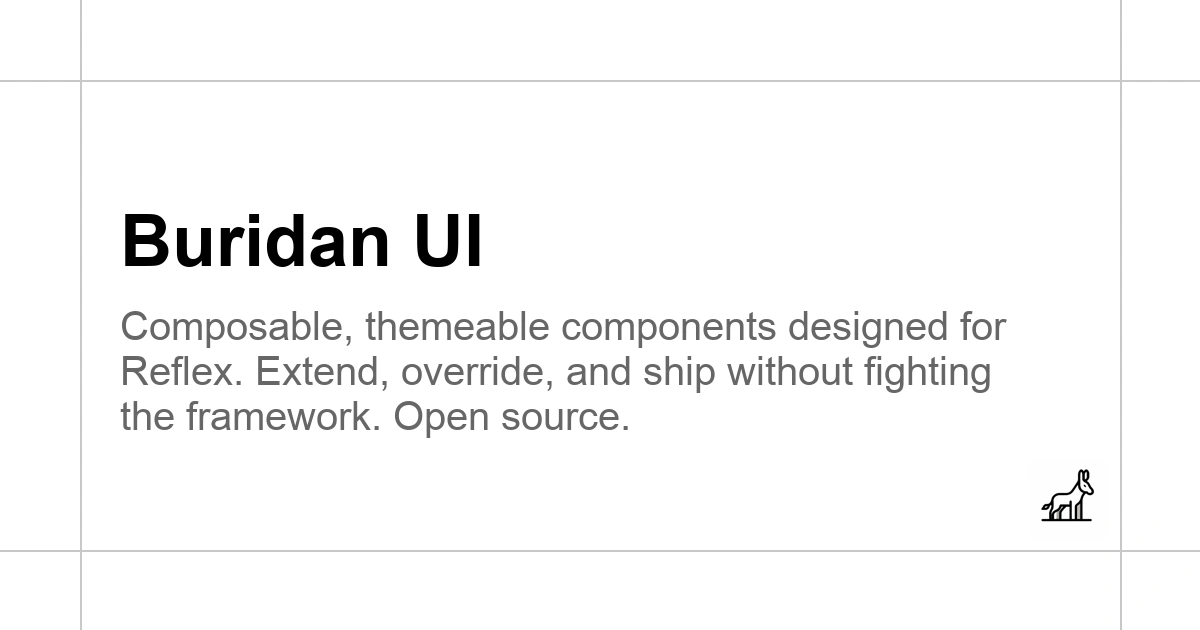
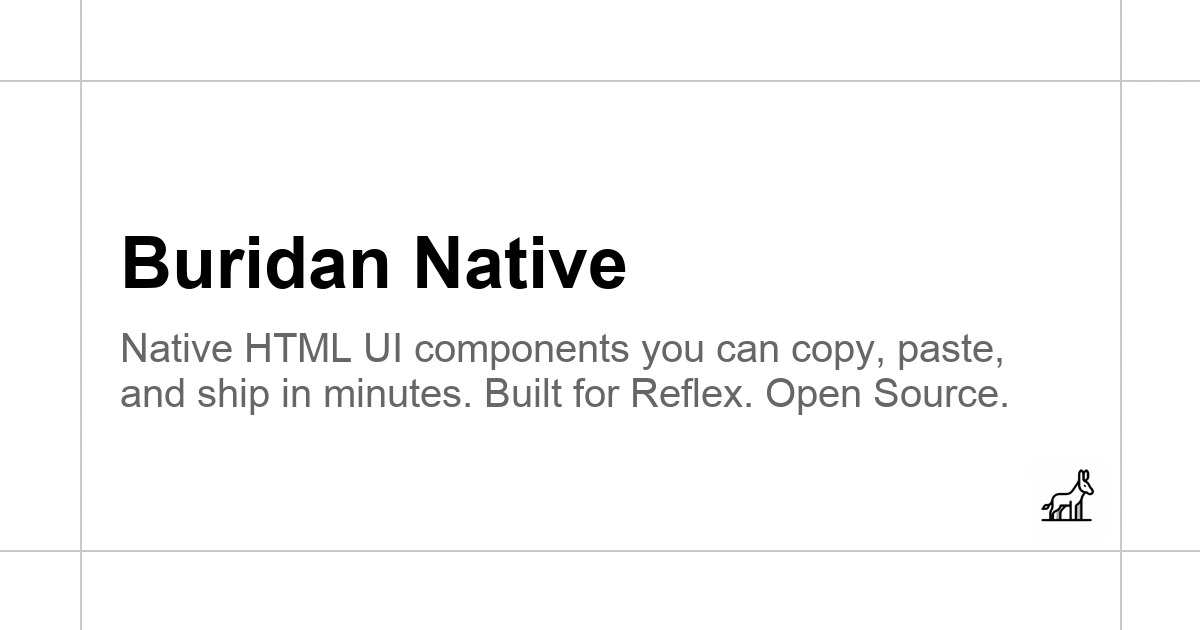
..

Changed region(s): [[0.0925, 0.3317, 0.8325, 0.6937]]

diff --git a/scripts/generate_preview_cards.py b/scripts/generate_preview_cards.py
@@ -37,8 +37,8 @@ PAGES_CONFIG = [
     },
     {
         "route": "index",
-        "title": "Buridan UI",
-        "description": "Composable, themeable components designed for Reflex. Extend, override, and ship without fighting the framework. Open source.",
+        "title": "Buridan Native",
+        "description": "Native HTML UI components you can copy, paste, and ship in minutes. Built for Reflex. Open Source.",
     },
     {
         "route": "blocks",